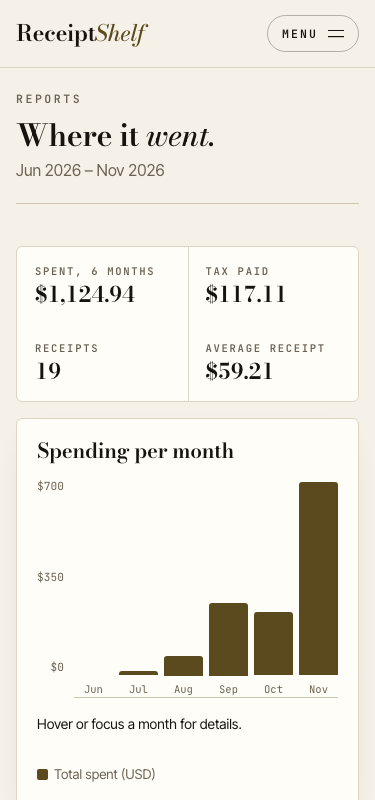
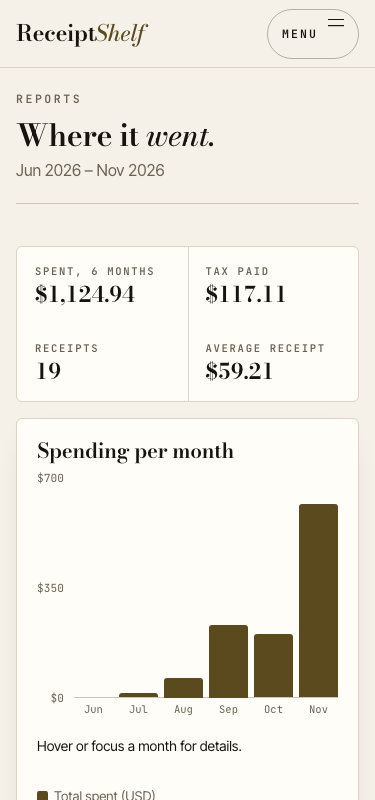
Fix bar chart scale and axis alignment
Bar labels no longer take height from the bars, so bar heights match the
axis and the 0 line sits on the baseline.

diff --git a/src/shared/base.css b/src/shared/base.css
@@ -1544,13 +1544,15 @@ fieldset {
   gap: 10px;
 }
 .bars-axis {
+  height: calc(220px + 1.1em);
+  margin-top: -0.55em;
   display: flex;
   flex-direction: column;
   justify-content: space-between;
   font-family: var(--font-mono);
   font-size: 0.7rem;
+  line-height: 1.1;
   color: var(--muted);
-  padding-bottom: 22px;
   text-align: right;
 }
 .bars {
@@ -1559,9 +1561,11 @@ fieldset {
   align-items: stretch;
   gap: 6px;
   height: 220px;
+  margin-bottom: 22px;
   border-bottom: 1px solid var(--rule);
 }
 .bar-col {
+  position: relative;
   flex: 1;
   min-width: 0;
   display: flex;
@@ -1590,6 +1594,10 @@ fieldset {
   min-height: 2px;
 }
 .bar-label {
+  position: absolute;
+  left: 0;
+  right: 0;
+  bottom: -20px;
   font-size: 0.66rem;
   color: var(--muted);
   text-align: center;
